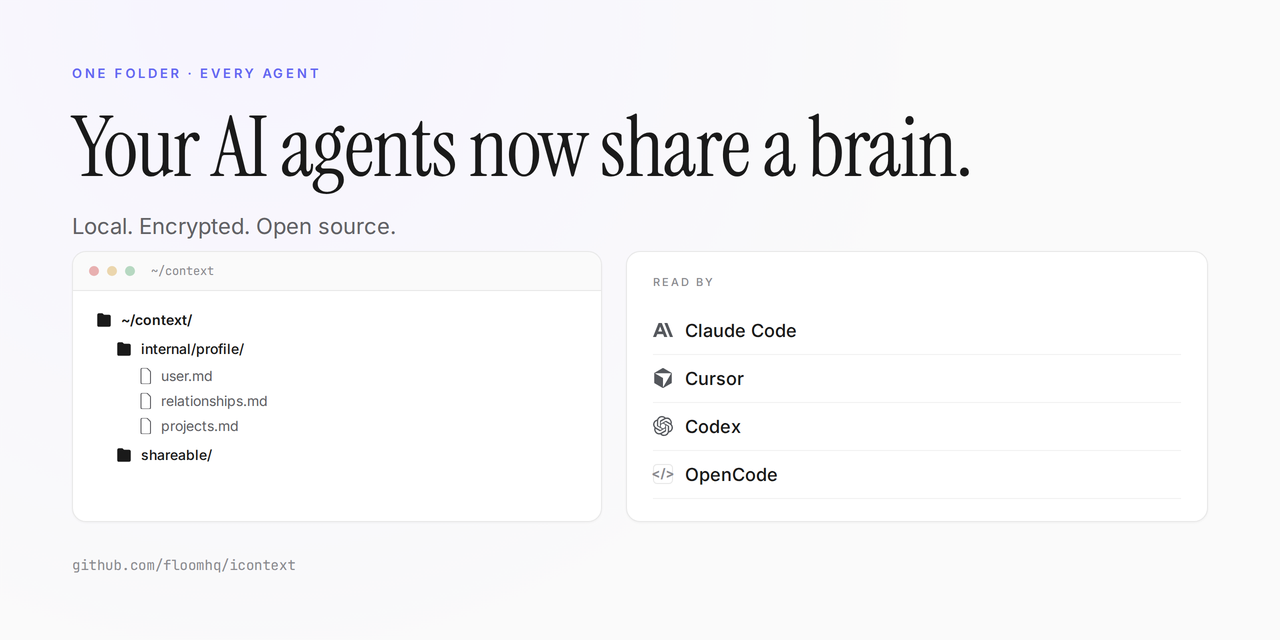
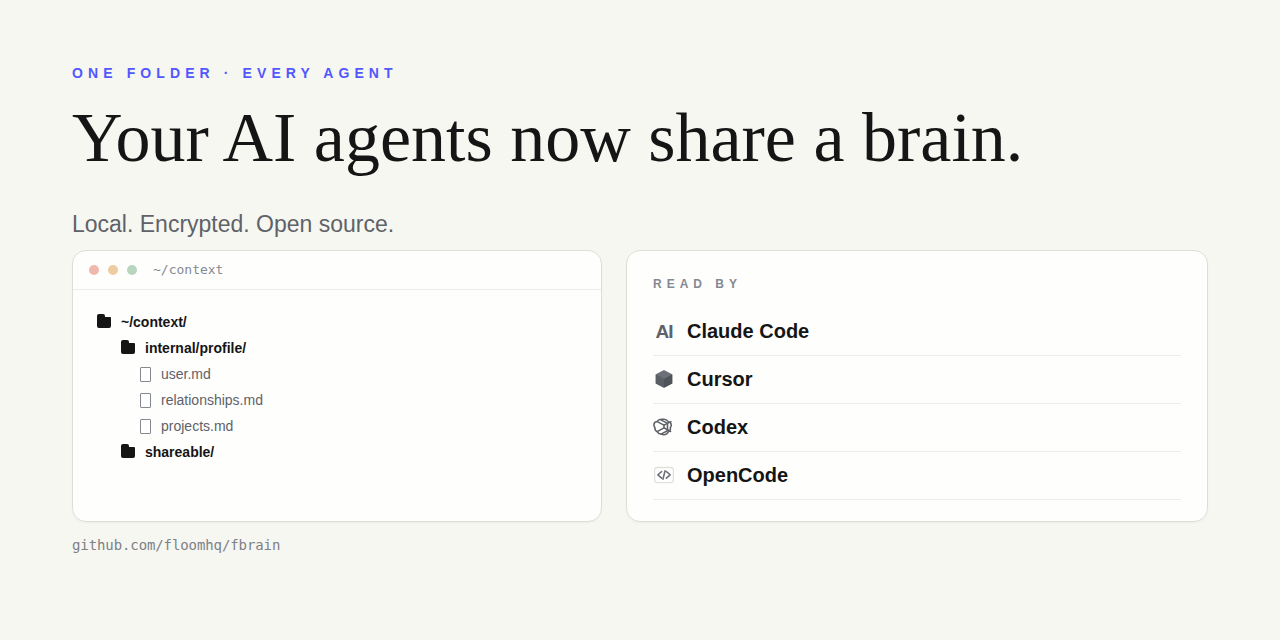
design: regenerate og-image with updated github.com/floomhq/fbrain footer (#6)

diff --git a/scripts/og-image.html b/scripts/og-image.html
@@ -1,0 +1,321 @@
+<!doctype html>
+<html lang="en">
+<head>
+  <meta charset="utf-8" />
+  <meta name="viewport" content="width=device-width, initial-scale=1" />
+  <title>fbrain OG Image</title>
+  <style>
+    :root {
+      --bg: #f6f7f1;
+      --ink: #151515;
+      --muted: #5f6268;
+      --quiet: #858992;
+      --accent: #5257ff;
+      --green: #10b981;
+      --card: #ffffff;
+      --line: #deded8;
+      --rule: #ecece8;
+      --dot-red: #efb8ad;
+      --dot-yellow: #edcc9f;
+      --dot-green: #b8d6bd;
+      --serif: "Iowan Old Style", Charter, ui-serif, Georgia, serif;
+      --sans: ui-sans-serif, -apple-system, BlinkMacSystemFont, "Segoe UI", sans-serif;
+      --mono: ui-monospace, "SFMono-Regular", Menlo, Consolas, monospace;
+    }
+
+    * {
+      box-sizing: border-box;
+    }
+
+    html,
+    body {
+      width: 1280px;
+      height: 640px;
+      margin: 0;
+      overflow: hidden;
+      background: var(--bg);
+      color: var(--ink);
+      font-family: var(--sans);
+    }
+
+    .canvas {
+      position: relative;
+      width: 1280px;
+      height: 640px;
+      padding: 66px 72px 64px;
+      background: var(--bg);
+    }
+
+    .eyebrow {
+      margin: 0 0 25px;
+      color: var(--accent);
+      font-size: 14px;
+      line-height: 1;
+      font-weight: 800;
+      letter-spacing: 5.1px;
+    }
+
+    h1 {
+      margin: 0;
+      max-width: 1080px;
+      font-family: var(--serif);
+      font-size: 70px;
+      line-height: 0.95;
+      font-weight: 400;
+      letter-spacing: 0;
+    }
+
+    .subtitle {
+      margin: 41px 0 12px;
+      color: var(--muted);
+      font-size: 23px;
+      line-height: 1;
+      font-weight: 500;
+      letter-spacing: 0;
+    }
+
+    .cards {
+      display: grid;
+      grid-template-columns: 530px 582px;
+      gap: 24px;
+      margin-top: 14px;
+    }
+
+    .card {
+      overflow: hidden;
+      background: rgba(255, 255, 255, 0.86);
+      border: 1px solid var(--line);
+      border-radius: 14px;
+      box-shadow: 0 1px 2px rgba(0, 0, 0, 0.04);
+    }
+
+    .folder-card {
+      height: 272px;
+    }
+
+    .browser-bar {
+      height: 39px;
+      display: flex;
+      align-items: center;
+      gap: 9px;
+      padding: 0 16px;
+      border-bottom: 1px solid var(--rule);
+      color: var(--quiet);
+      font-family: var(--mono);
+      font-size: 13px;
+      font-weight: 500;
+    }
+
+    .dot {
+      width: 10px;
+      height: 10px;
+      border-radius: 50%;
+      flex: 0 0 auto;
+    }
+
+    .dot.red { background: var(--dot-red); }
+    .dot.yellow { background: var(--dot-yellow); }
+    .dot.green { background: var(--dot-green); margin-right: 7px; }
+
+    .tree {
+      padding: 20px 24px 22px;
+      font-size: 14px;
+      line-height: 1.62;
+      color: var(--muted);
+    }
+
+    .tree-row {
+      display: flex;
+      align-items: center;
+      height: 26px;
+      gap: 10px;
+      white-space: nowrap;
+    }
+
+    .tree-row.root {
+      color: var(--ink);
+      font-weight: 800;
+    }
+
+    .tree-row.dir {
+      color: var(--ink);
+      font-weight: 650;
+    }
+
+    .tree-row.child {
+      padding-left: 24px;
+    }
+
+    .tree-row.file {
+      padding-left: 43px;
+      font-weight: 400;
+    }
+
+    .folder-icon,
+    .file-icon {
+      position: relative;
+      display: inline-block;
+      flex: 0 0 auto;
+    }
+
+    .folder-icon {
+      width: 14px;
+      height: 11px;
+      background: var(--ink);
+      border-radius: 1px 1px 2px 2px;
+    }
+
+    .folder-icon::before {
+      content: "";
+      position: absolute;
+      top: -3px;
+      left: 0;
+      width: 8px;
+      height: 4px;
+      background: var(--ink);
+      border-radius: 2px 2px 0 0;
+    }
+
+    .file-icon {
+      width: 11px;
+      height: 15px;
+      border: 1.4px solid var(--quiet);
+      border-radius: 1px;
+      background: #fff;
+    }
+
+    .read-card {
+      height: 272px;
+      padding: 27px 26px 21px;
+    }
+
+    .read-title {
+      margin: 0 0 18px;
+      color: var(--quiet);
+      font-size: 12px;
+      line-height: 1;
+      font-weight: 700;
+      letter-spacing: 5px;
+    }
+
+    .reader {
+      height: 48px;
+      display: grid;
+      grid-template-columns: 24px 1fr;
+      gap: 10px;
+      align-items: center;
+      border-bottom: 1px solid var(--rule);
+      font-size: 20px;
+      line-height: 1;
+      font-weight: 560;
+    }
+
+    .reader-icon {
+      width: 22px;
+      height: 22px;
+      display: grid;
+      place-items: center;
+      color: var(--muted);
+    }
+
+    .ai-icon {
+      font-size: 19px;
+      font-weight: 900;
+      letter-spacing: -1px;
+    }
+
+    .cube-icon svg,
+    .codex-icon svg,
+    .code-icon svg {
+      display: block;
+      width: 22px;
+      height: 22px;
+    }
+
+    .footer {
+      margin: 16px 0 0;
+      color: #7e8087;
+      font-family: var(--mono);
+      font-size: 14px;
+      line-height: 1;
+      font-weight: 500;
+      letter-spacing: -0.1px;
+    }
+  </style>
+</head>
+<body>
+  <main class="canvas" aria-label="fbrain social preview image">
+    <p class="eyebrow">ONE FOLDER · EVERY AGENT</p>
+    <h1>Your AI agents now share a brain.</h1>
+    <p class="subtitle">Local. Encrypted. Open source.</p>
+
+    <section class="cards" aria-label="fbrain context and readers">
+      <div class="card folder-card" aria-label="context folder tree">
+        <div class="browser-bar">
+          <span class="dot red"></span>
+          <span class="dot yellow"></span>
+          <span class="dot green"></span>
+          <span>~/context</span>
+        </div>
+
+        <div class="tree">
+          <div class="tree-row root"><span class="folder-icon"></span><span>~/context/</span></div>
+          <div class="tree-row dir child"><span class="folder-icon"></span><span>internal/profile/</span></div>
+          <div class="tree-row file"><span class="file-icon"></span><span>user.md</span></div>
+          <div class="tree-row file"><span class="file-icon"></span><span>relationships.md</span></div>
+          <div class="tree-row file"><span class="file-icon"></span><span>projects.md</span></div>
+          <div class="tree-row dir child"><span class="folder-icon"></span><span>shareable/</span></div>
+        </div>
+      </div>
+
+      <div class="card read-card" aria-label="agents that read fbrain context">
+        <p class="read-title">READ BY</p>
+
+        <div class="reader">
+          <span class="reader-icon ai-icon">AI</span>
+          <span>Claude Code</span>
+        </div>
+
+        <div class="reader">
+          <span class="reader-icon cube-icon" aria-hidden="true">
+            <svg viewBox="0 0 24 24" fill="none">
+              <path d="M12 2.5 21 7.2v9.6l-9 4.7-9-4.7V7.2l9-4.7Z" fill="#5f6268"/>
+              <path d="M12 12.1 21 7.2 12 2.5 3 7.2l9 4.9Z" fill="#6d7077"/>
+              <path d="M12 12.1v9.4l9-4.7V7.2l-9 4.9Z" fill="#4f5359"/>
+              <path d="M12 12.1 3 7.2v9.6l9 4.7v-9.4Z" fill="#5a5e65"/>
+            </svg>
+          </span>
+          <span>Cursor</span>
+        </div>
+
+        <div class="reader">
+          <span class="reader-icon codex-icon" aria-hidden="true">
+            <svg viewBox="0 0 24 24" fill="none" stroke="#5f6268" stroke-width="1.7" stroke-linecap="round" stroke-linejoin="round">
+              <path d="M12 3.5c2 0 3.6 1.1 4.5 2.7 1.9.2 3.4 1.8 3.4 3.8 0 1-.4 1.9-1 2.6.4 1.9-.6 3.9-2.4 4.8-.8 1.8-2.5 3.1-4.6 3.1-1 0-2-.3-2.8-.9-1.9.2-3.7-.9-4.5-2.6-1.7-.8-2.7-2.5-2.5-4.4-.7-.7-1.1-1.7-1.1-2.8 0-2 1.5-3.7 3.5-3.9.9-1.5 2.5-2.4 4.4-2.4Z"/>
+              <path d="M8.7 4.2 15.8 8v8.1l-7.1 3.7"/>
+              <path d="M4.5 6.1 12 10l7.5-3.9"/>
+              <path d="M4.5 17.1 12 13l7.2 3.9"/>
+              <path d="M12 10v3"/>
+            </svg>
+          </span>
+          <span>Codex</span>
+        </div>
+
+        <div class="reader">
+          <span class="reader-icon code-icon" aria-hidden="true">
+            <svg viewBox="0 0 24 24" fill="none">
+              <rect x="1.8" y="3.8" width="20.4" height="16.4" rx="3" fill="#fff" stroke="#e1e1dc" stroke-width="1.4"/>
+              <path d="m9.4 8.2-4.1 3.6 4.1 3.6" stroke="#6b6f76" stroke-width="1.7" stroke-linecap="round" stroke-linejoin="round"/>
+              <path d="m14.6 8.2 4.1 3.6-4.1 3.6" stroke="#6b6f76" stroke-width="1.7" stroke-linecap="round" stroke-linejoin="round"/>
+              <path d="m13.2 7.3-2.4 9.4" stroke="#6b6f76" stroke-width="1.7" stroke-linecap="round"/>
+            </svg>
+          </span>
+          <span>OpenCode</span>
+        </div>
+      </div>
+    </section>
+
+    <p class="footer">github.com/floomhq/fbrain</p>
+  </main>
+</body>
+</html>
